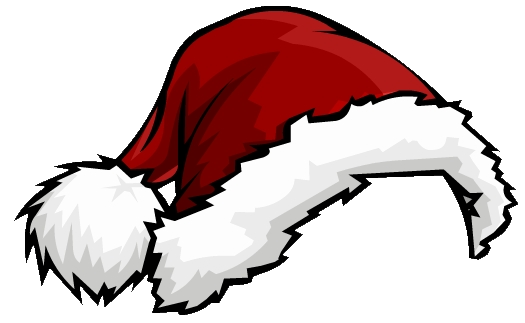
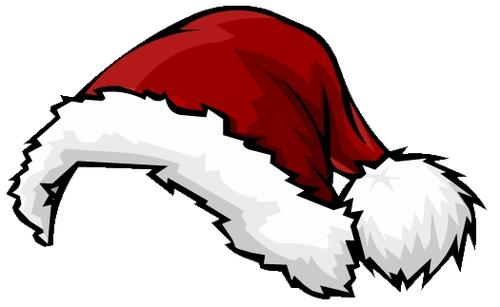
Resized hats, removed user line deletion, added relative image rescaling

diff --git a/botmain.py b/botmain.py
@@ -6,13 +6,11 @@ from PIL import Image
 from io import BytesIO
 from utils import get_imgs
 
-
-bot_prefix = "q!"
 Client = discord.Client()
-client = commands.Bot(command_prefix=bot_prefix)
+client = commands.Bot(command_prefix="q!")
 
-messages = {}
-prev_messages = {}
+images = {}
+
 
 @client.async_event
 async def on_ready():
@@ -28,11 +26,8 @@ async def on_message_delete(message):
     in order to clear cache.
     :param message: Message that was deleted
     """
-    id = message.author.id
-    if id in prev_messages:
-        prev_messages.pop(id)
-    if id in messages:
-        messages.pop(id)
+    if message.channel in images:
+        images.pop(message.channel)
 
 
 @client.command(pass_context=True)
@@ -47,7 +42,7 @@ async def hathelp(ctx):
     await client.send_message(ctx.message.channel, content=string)
 
 
-def check_hat(args):
+def check_hat(args, image):
     """
     Helper function that checks puthat arguments for specific flags
     Checks flipping the image horizontally and scaling by a factor
@@ -56,11 +51,15 @@ def check_hat(args):
     :return: Manipulated hat file
     """
     folder = get_imgs("crimmis_hats/")
-    hat = Image.open(folder.get('1'))
+    hat = Image.open(folder.get('0'))
     for arg in args:
         if arg.startswith('-type='):
             value = arg.split('=')[1]
             hat = Image.open(folder.get(value))
+
+    # Resizing image to appropriate size
+    image_w, image_h = image.size
+    hat.resize((int(image_w * 0.5), int(image_w * 0.5)))
 
     for arg in args:
         if arg == '-flip':
@@ -82,7 +81,7 @@ def check_dim(args, image_h, image_w, hat_w):
     :param hat_w: Width of the hat
     :return: Tuple with manipulated coordinates
     """
-    width = (image_w - hat_w) // 2
+    width = int((image_w - hat_w) * 0.75)
     height = int(image_h - (.9 * image_h))
     for arg in args:
         if arg.startswith('-w='):
@@ -108,7 +107,7 @@ async def hat(ctx, *args):
     response = requests.get(url, headers={'User-agent': 'Mozilla/5.0'})
 
     image = Image.open(BytesIO(response.content))
-    hat = check_hat(args)
+    hat = check_hat(args, image)
     image_w, image_h = image.size
     hat_w, hat_h = hat.size
 
@@ -116,15 +115,12 @@ async def hat(ctx, *args):
     image.paste(hat, (w_offset, h_offset), mask=hat)
     image.save("crimmis_hats/remade.png")
 
-    author = message.author.id
-    if author in messages:
-        if author in prev_messages:
-            await client.delete_message(prev_messages.get(author))
-        await client.delete_message(messages.get(author))
+    channel = message.channel
+    if channel in images:
+        await client.delete_message(images.get(channel))
 
     message = await client.send_file(message.channel, "crimmis_hats/remade.png", filename="newhat.png", content="Hat: ")
-    messages[author] = message
-    prev_messages[author] = ctx.message
+    images[channel] = message
     os.remove("crimmis_hats/remade.png")
 
 

diff --git a/utils.py b/utils.py
@@ -1,5 +1,5 @@
 import os
-
+from PIL import Image
 
 def get_imgs(folder):
     # Function that returns a dictionary of the images in a folder
@@ -10,3 +10,11 @@ def get_imgs(folder):
         imgs[str(i)] = input_path
         i += 1
     return imgs
+
+
+def resize(folder, size):
+    for image_path in os.listdir(folder):
+        input_path = os.path.join(folder, image_path)
+        image = Image.open(input_path)
+        image.thumbnail((size, size), Image.ANTIALIAS)
+        image.save(input_path)
